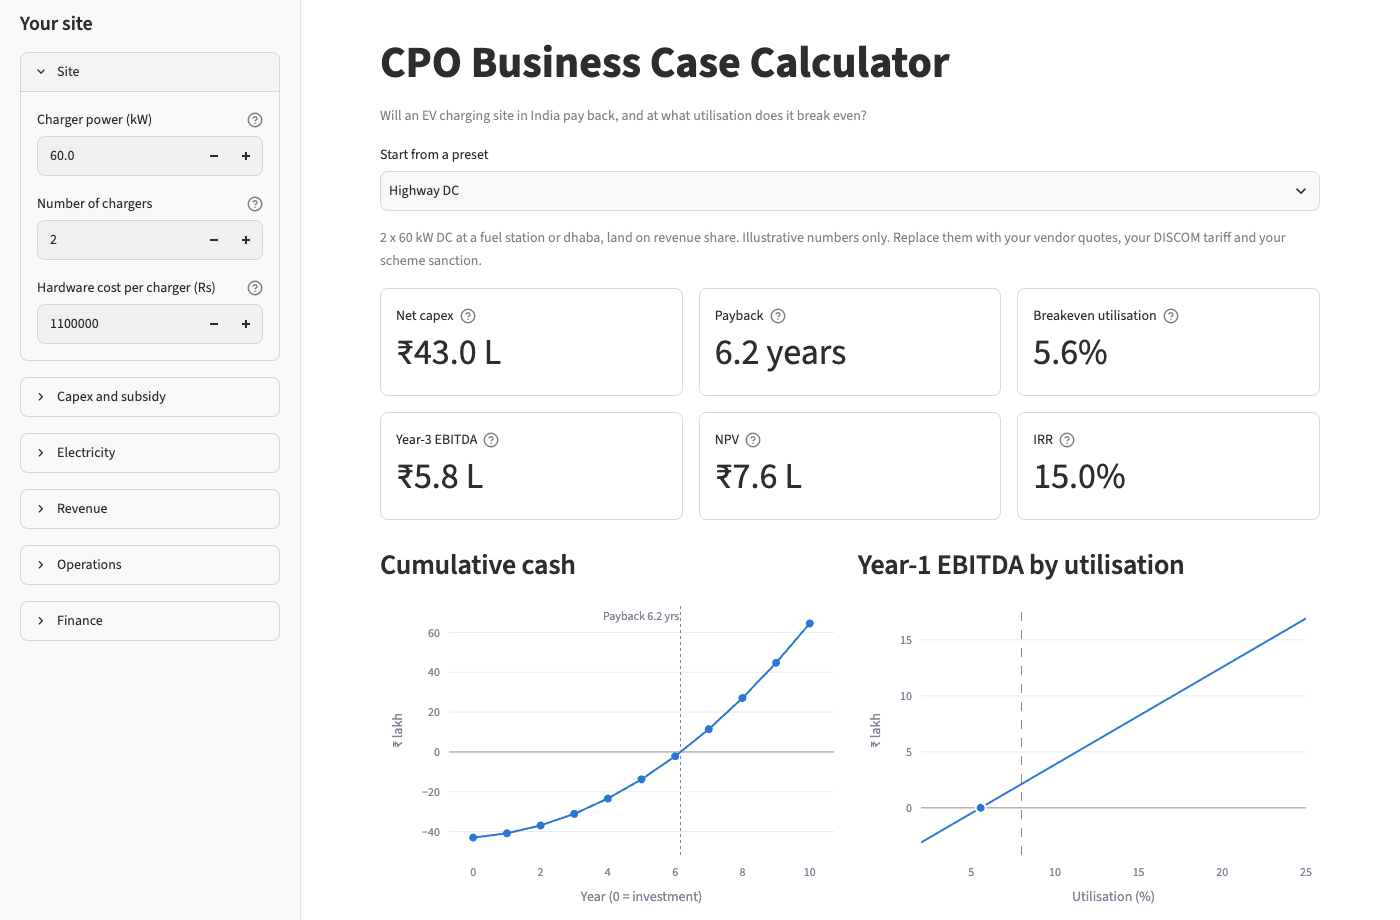
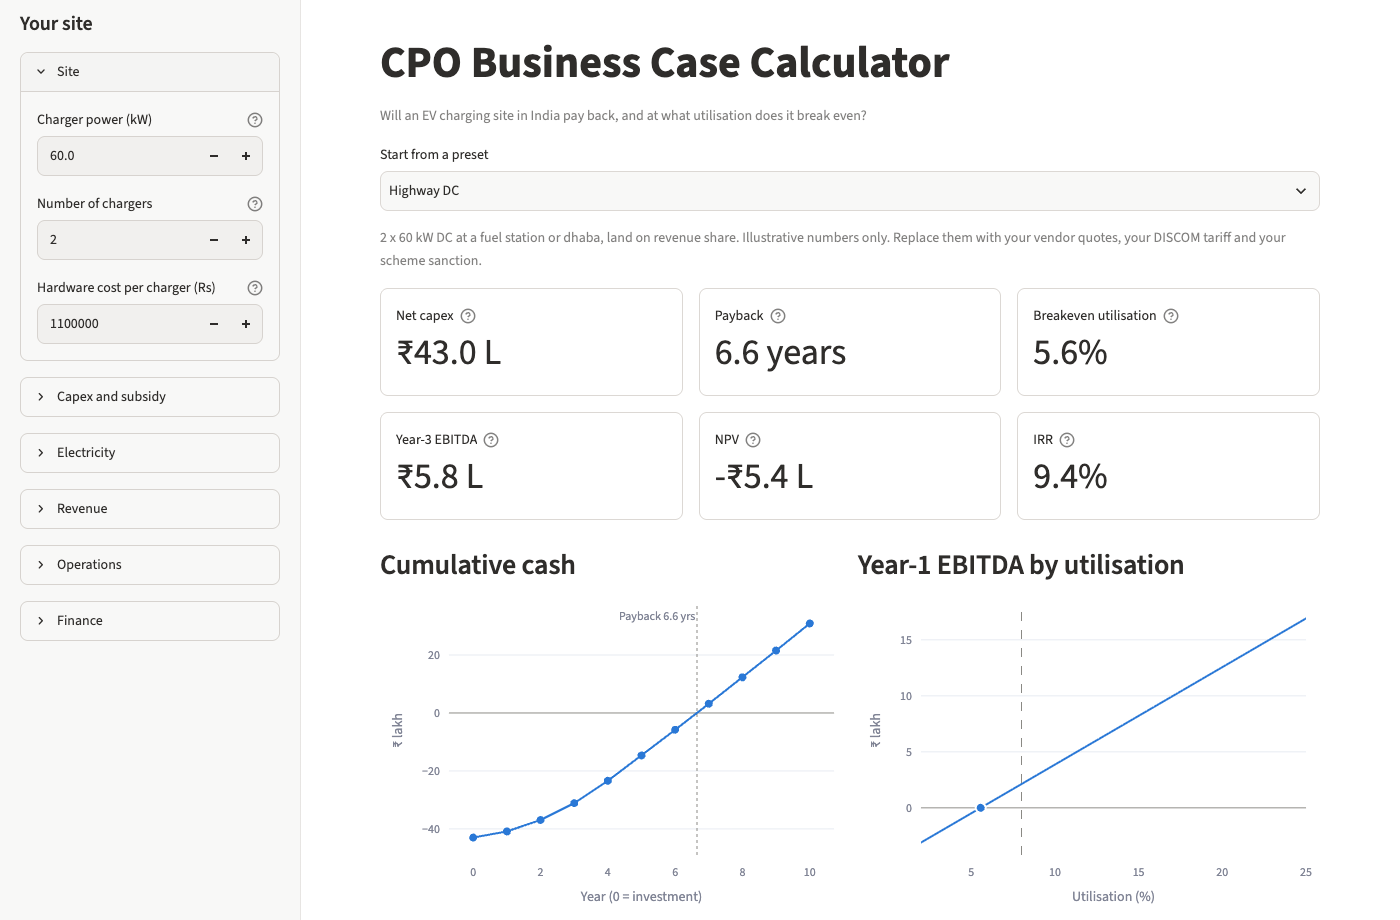
Add a maximum utilisation input
Utilisation growth stops at the user's maximum (and never passes uptime),
so a highway site no longer grows to 26% by year 10. Presets cap at 15%
(highway DC), 20% (apartment AC) and 30% (overnight fleet depot).
Breakeven above the ceiling shows as not reachable.

diff --git a/src/cpo_calc/yearly.py b/src/cpo_calc/yearly.py
@@ -22,9 +22,10 @@ class YearRow:
 
 
 def utilisation_pct(site: SiteInputs, year: int) -> float:
-    """Energy-based utilisation: kWh delivered / (rated kW x all hours). Downtime caps it at uptime."""
+    """Energy-based utilisation: kWh delivered / (rated kW x all hours), growing up to the ceiling."""
     ops = site.operations
-    return min(ops.utilisation_pct_year1 + ops.utilisation_growth_pts_per_year * (year - 1), ops.uptime_pct)
+    grown = ops.utilisation_pct_year1 + ops.utilisation_growth_pts_per_year * (year - 1)
+    return min(grown, ops.utilisation_ceiling_pct)
 
 
 @dataclass(frozen=True)
@@ -94,7 +95,7 @@ def year_row(site: SiteInputs, year: int) -> YearRow:
 
 
 def breakeven_utilisation_pct(site: SiteInputs, year: int = 1) -> float | None:
-    """Utilisation at which EBITDA is zero in `year`; None if no utilisation up to uptime gets there."""
+    """Utilisation at which EBITDA is zero in `year`; None if it is above the utilisation ceiling."""
     gap = _fixed_costs(site, year) - site.revenue.other_income_per_month * 12
     if gap <= 0:
         return 0.0
@@ -102,7 +103,7 @@ def breakeven_utilisation_pct(site: SiteInputs, year: int = 1) -> float | None:
     if margin <= 0:
         return None
     pct = gap / (_rated_kwh(site) * margin) * 100
-    return pct if pct <= site.operations.uptime_pct else None
+    return pct if pct <= site.operations.utilisation_ceiling_pct else None
 
 
 def yearly_model(site: SiteInputs) -> list[YearRow]:

diff --git a/src/cpo_calc/models.py b/src/cpo_calc/models.py
@@ -44,6 +44,7 @@ class Revenue(_Input):
 class Operations(_Input):
     utilisation_pct_year1: Percent
     utilisation_growth_pts_per_year: Annotated[float, Field(ge=0)] = 0
+    max_utilisation_pct: Percent = 100
     uptime_pct: Percent = 95
     om_per_charger_year: Rupees = 0
     csms_per_charger_month: Rupees = 0
@@ -51,10 +52,15 @@ class Operations(_Input):
     rent_share_pct: Percent = 0
     staff_and_other_per_month: Rupees = 0
 
+    @property
+    def utilisation_ceiling_pct(self) -> float:
+        """Utilisation never goes above the user's maximum, nor above uptime."""
+        return min(self.max_utilisation_pct, self.uptime_pct)
+
     @model_validator(mode="after")
-    def _utilisation_within_uptime(self) -> "Operations":
-        if self.utilisation_pct_year1 > self.uptime_pct:
-            raise ValueError("utilisation cannot exceed uptime")
+    def _utilisation_within_ceiling(self) -> "Operations":
+        if self.utilisation_pct_year1 > self.utilisation_ceiling_pct:
+            raise ValueError("year-1 utilisation cannot exceed maximum utilisation or uptime")
         return self
 
     @model_validator(mode="after")

diff --git a/app/form.py b/app/form.py
@@ -47,6 +47,7 @@ GROUPS: list[tuple[str, list[FormField]]] = [
     ("Operations", [
         FormField("operations.utilisation_pct_year1", "Utilisation in year 1 (%)", "Energy delivered / (rated power x 24 h x 365), the usual energy-based measure. Indian public chargers often run at 1-10%.", "pct"),
         FormField("operations.utilisation_growth_pts_per_year", "Utilisation growth (points/year)", "Added each year: 2 means 8% -> 10% -> 12%.", "pct"),
+        FormField("operations.max_utilisation_pct", "Maximum utilisation (%)", "Growth stops here. Busy public DC sites rarely pass 15-20%; an overnight depot is limited by its charging window (8 h a day is about 33%).", "pct"),
         FormField("operations.uptime_pct", "Uptime (%)", "Share of time the chargers are working. Utilisation cannot exceed it.", "pct"),
         FormField("operations.om_per_charger_year", "O&M and AMC (Rs/charger/year)", "AMC quote from the charger vendor.", "rupees"),
         FormField("operations.csms_per_charger_month", "CSMS (Rs/charger/month)", "From your CSMS contract.", "rupees"),

diff --git a/src/cpo_calc/scenarios.py b/src/cpo_calc/scenarios.py
@@ -3,7 +3,7 @@
 from cpo_calc.finance import SiteResult, evaluate
 from cpo_calc.models import SiteInputs
 
-# (utilisation factor, price factor) applied to the user's inputs
+# (utilisation factor, price factor) applied to the user's inputs; the maximum utilisation stays as entered
 SCENARIO_FACTORS: dict[str, tuple[float, float]] = {
     "pessimistic": (0.7, 0.9),
     "base": (1.0, 1.0),
@@ -15,7 +15,8 @@ def scenario_inputs(site: SiteInputs, name: str) -> SiteInputs:
     util_factor, price_factor = SCENARIO_FACTORS[name]
     data = site.model_dump()
     ops, rev = data["operations"], data["revenue"]
-    ops["utilisation_pct_year1"] = min(ops["utilisation_pct_year1"] * util_factor, ops["uptime_pct"])
+    ceiling = min(ops["max_utilisation_pct"], ops["uptime_pct"])
+    ops["utilisation_pct_year1"] = min(ops["utilisation_pct_year1"] * util_factor, ceiling)
     ops["utilisation_growth_pts_per_year"] *= util_factor
     rev["price_per_kwh_incl_gst"] *= price_factor
     return SiteInputs.model_validate(data)

diff --git a/tests/test_yearly.py b/tests/test_yearly.py
@@ -83,3 +83,17 @@ def test_ebitda_at_utilisation_matches_the_yearly_row():
     site = simple_site()
     assert ebitda_at_utilisation(site, 10) == pytest.approx(year_row(site, 1).ebitda)
     assert ebitda_at_utilisation(site, breakeven_utilisation_pct(site)) == pytest.approx(0, abs=1e-6)
+
+
+def test_growth_stops_at_maximum_utilisation():
+    rows = yearly_model(simple_site(utilisation_growth_pts_per_year=4, max_utilisation_pct=15))
+    assert [r.utilisation_pct for r in rows] == [10, 14, 15]
+
+
+def test_breakeven_above_maximum_utilisation_is_not_reachable():
+    # breakeven is 2.28% (see the hand-checked test); a 2% ceiling puts it out of reach
+    site = simple_site(utilisation_growth_pts_per_year=0)
+    capped = site.model_copy(
+        update={"operations": site.operations.model_copy(update={"utilisation_pct_year1": 2, "max_utilisation_pct": 2})}
+    )
+    assert breakeven_utilisation_pct(capped) is None

diff --git a/src/cpo_calc/presets.py b/src/cpo_calc/presets.py
@@ -50,6 +50,7 @@ HIGHWAY_DC = Preset(
         operations=Operations(
             utilisation_pct_year1=8,
             utilisation_growth_pts_per_year=2,
+            max_utilisation_pct=15,
             om_per_charger_year=50_000,
             csms_per_charger_month=1_000,
             rent_share_pct=10,
@@ -71,6 +72,7 @@ APARTMENT_AC = Preset(
         operations=Operations(
             utilisation_pct_year1=12,
             utilisation_growth_pts_per_year=2,
+            max_utilisation_pct=20,
             om_per_charger_year=5_000,
             csms_per_charger_month=300,
         ),
@@ -97,6 +99,7 @@ FLEET_DEPOT_DC = Preset(
         operations=Operations(
             utilisation_pct_year1=20,
             utilisation_growth_pts_per_year=2,
+            max_utilisation_pct=30,
             om_per_charger_year=30_000,
             csms_per_charger_month=800,
             rent_per_month=10_000,

diff --git a/tests/test_models.py b/tests/test_models.py
@@ -68,5 +68,10 @@ def test_subsidy_above_capex_is_rejected():
 
 
 def test_utilisation_above_uptime_is_rejected():
-    with pytest.raises(ValidationError, match="cannot exceed uptime"):
+    with pytest.raises(ValidationError, match="cannot exceed maximum utilisation or uptime"):
         Operations(utilisation_pct_year1=96, uptime_pct=95)
+
+
+def test_utilisation_above_maximum_is_rejected():
+    with pytest.raises(ValidationError, match="cannot exceed maximum utilisation"):
+        Operations(utilisation_pct_year1=20, max_utilisation_pct=15)

diff --git a/app/streamlit_app.py b/app/streamlit_app.py
@@ -89,7 +89,8 @@ with right:
     st.plotly_chart(charts.ebitda_vs_utilisation(site, result))
     if result.breakeven_utilisation_pct is None:
         st.caption(
-            f"No utilisation up to your {site.operations.uptime_pct:g}% uptime covers the fixed costs at this margin."
+            f"No utilisation up to your {site.operations.utilisation_ceiling_pct:g}% ceiling "
+            "(maximum utilisation or uptime) covers the fixed costs at this margin."
         )
     else:
         st.caption(

diff --git a/tests/test_scenarios.py b/tests/test_scenarios.py
@@ -30,3 +30,8 @@ def test_optimistic_utilisation_never_exceeds_uptime():
 def test_npv_rises_from_pessimistic_to_optimistic(key):
     results = evaluate_scenarios(PRESETS[key].inputs)
     assert results["pessimistic"].npv < results["base"].npv < results["optimistic"].npv
+
+
+def test_optimistic_utilisation_stops_at_maximum():
+    site = simple_site(max_utilisation_pct=12)
+    assert scenario_inputs(site, "optimistic").operations.utilisation_pct_year1 == 12

diff --git a/tests/test_app.py b/tests/test_app.py
@@ -13,7 +13,7 @@ def test_form_state_round_trips_every_preset(key):
 
 
 def test_form_covers_every_input_field():
-    assert len(ALL_FIELDS) == len(to_state(PRESETS["highway_dc"].inputs)) == 27
+    assert len(ALL_FIELDS) == len(to_state(PRESETS["highway_dc"].inputs)) == 28
 
 
 def test_invalid_form_state_raises():

diff --git a/README.md b/README.md
@@ -50,16 +50,18 @@ For each year *t* of the project life:
 
 - **Utilisation** is energy-based, the measure most public reports use: energy delivered ÷
   (rated power × every hour of the year). It is not the time a car is plugged in, which reads
-  higher. It grows by a fixed number of points each year and can never exceed uptime.
+  higher. It grows by a fixed number of points each year until it reaches your maximum
+  utilisation, and it can never exceed uptime.
 - **Escalation:** the energy and demand charges rise with the tariff escalation; the selling price
   rises with the price escalation. Other costs stay flat.
-- **Breakeven utilisation** is the year-1 utilisation at which EBITDA is zero:
+- **Breakeven utilisation** is the year-1 utilisation at which EBITDA is zero (shown as not
+  reachable if it is above your maximum utilisation):
   (fixed costs − other income) ÷ (rated kWh × margin per kWh).
 - **Cash flow** is net capex (capex − subsidy) in year 0, then EBITDA each year.
   **Payback** is interpolated within the year. **NPV** uses your discount rate. **IRR** is
   found by bisection.
-- **Scenarios:** pessimistic takes 70% of utilisation and 90% of price; optimistic 130% and 110%,
-  with utilisation capped at uptime.
+- **Scenarios:** pessimistic takes 70% of utilisation and 90% of price; optimistic 130% and 110%.
+  The maximum utilisation stays as you entered it.
 
 Worked year-1 numbers for each preset are in [`examples/hand_checked.md`](examples/hand_checked.md)
 and are asserted to the rupee in the tests.
